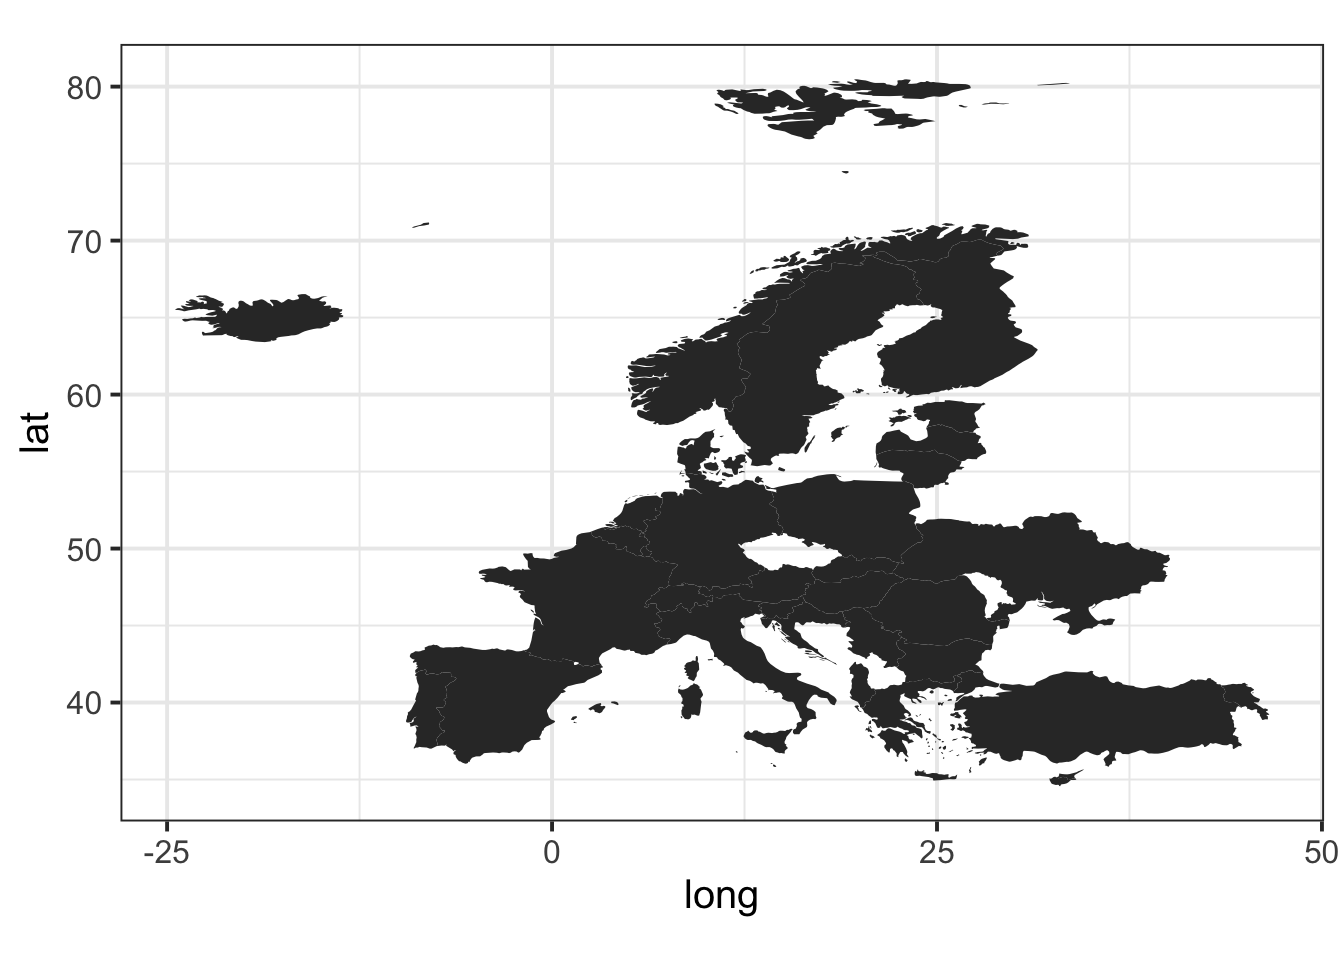
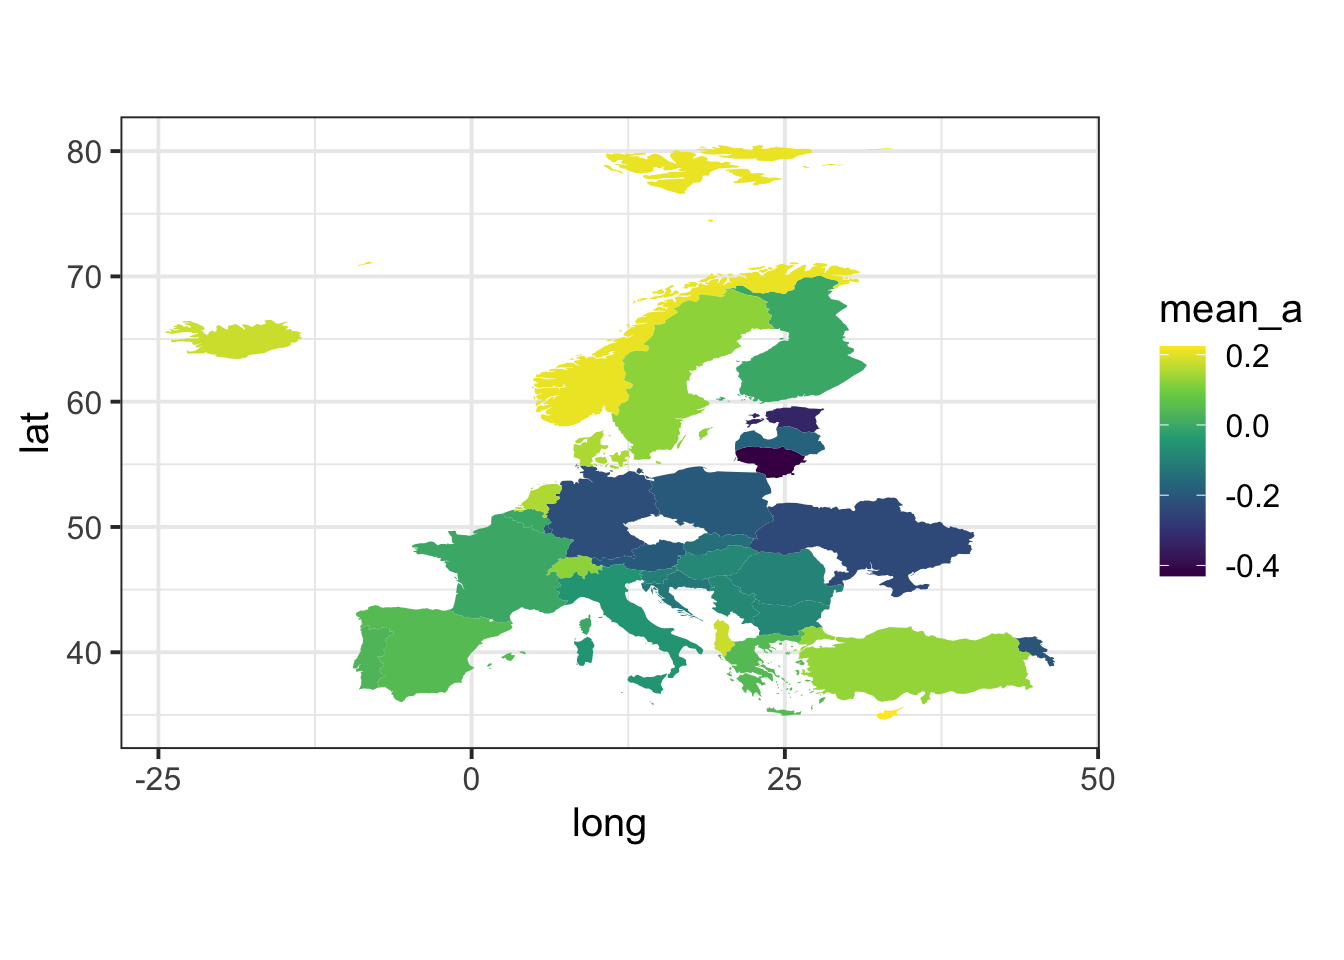
minor updates to mod 5 lab starter; mod 4 lab

diff --git a/docs/labs/mod-04-lead-personality.html b/docs/labs/mod-04-lead-personality.html
@@ -482,10 +482,8 @@ pre code {
 <ol start="6" style="list-style-type: decimal">
 <li>Join the <code>map_data("world")</code> with the <code>combined</code> data to create a new dataset. Make sure to do so in a way that only keeps the countries we have data for in the <code>combined</code> dataset. You can assign this new dataset to a variable just called <code>d</code>.</li>
 </ol>
-<div class="sourceCode" id="cb14"><pre class="sourceCode r"><code class="sourceCode r"><span id="cb14-1"><a href="#cb14-1" tabindex="-1"></a>d <span class="ot">&lt;-</span> ... <span class="sc">%&gt;%</span></span>
-<span id="cb14-2"><a href="#cb14-2" tabindex="-1"></a>  ...</span></code></pre></div>
 <div class="green">
-<p><strong>Hint:</strong> Pay attention to the fact I wrote you want to prioritize the countries in the <code>combined</code> dataset. The <code>map_data("world")</code> dataset has way more countries than we need. So which join function do you want to use? Next, you need to specify in the join function which variables from the two datasets we should join on (using the <code>by = c(VAR1,VAR2)</code> argument).</p>
+<p><strong>Hint:</strong> Pay attention to the fact I wrote you want to prioritize the countries in the <code>combined</code> dataset. The <code>map_data("world")</code> dataset has way more countries than we need. So which join function do you want to use? Next, you need to specify in the join function which variable in each dataset has the countries we want to join on (using the <code>by = c(VAR1=VAR2)</code> argument).</p>
 </div>
 <div class="frame">
 <p>Short variable names like <code>d</code> can be useful for “temporary” data that won’t be used for more than one thing. We’re only going to be using <code>d</code> to make our map plots, but we wouldn’t use it for any other kinds of analysis, so the short and generically non-descript name can be OK here.</p>
@@ -494,14 +492,14 @@ pre code {
 <div id="map-it" class="section level3">
 <h3>Map it!</h3>
 <p>Now we’re ready to make our map to explore the possibility of geographic differences. The code below creates the basic map.</p>
-<div class="sourceCode" id="cb15"><pre class="sourceCode r"><code class="sourceCode r"><span id="cb15-1"><a href="#cb15-1" tabindex="-1"></a><span class="fu">ggplot</span>(d, <span class="fu">aes</span>(<span class="at">x=</span>long, <span class="at">y =</span> lat, <span class="at">group=</span>group)) <span class="sc">+</span> </span>
-<span id="cb15-2"><a href="#cb15-2" tabindex="-1"></a>  <span class="fu">geom_polygon</span>() <span class="sc">+</span> </span>
-<span id="cb15-3"><a href="#cb15-3" tabindex="-1"></a>  <span class="fu">coord_fixed</span>() </span></code></pre></div>
-<p><img src="mod-04-lead-personality_files/figure-html/unnamed-chunk-13-1.png" width="80%" style="display: block; margin: auto;" /></p>
+<div class="sourceCode" id="cb14"><pre class="sourceCode r"><code class="sourceCode r"><span id="cb14-1"><a href="#cb14-1" tabindex="-1"></a><span class="fu">ggplot</span>(d, <span class="fu">aes</span>(<span class="at">x=</span>long, <span class="at">y =</span> lat, <span class="at">group=</span>group)) <span class="sc">+</span> </span>
+<span id="cb14-2"><a href="#cb14-2" tabindex="-1"></a>  <span class="fu">geom_polygon</span>() <span class="sc">+</span> </span>
+<span id="cb14-3"><a href="#cb14-3" tabindex="-1"></a>  <span class="fu">coord_fixed</span>() </span></code></pre></div>
+<p><img src="mod-04-lead-personality_files/figure-html/unnamed-chunk-12-1.png" width="80%" style="display: block; margin: auto;" /></p>
 <ol start="7" style="list-style-type: decimal">
 <li>Modify the code above to plot agreeableness by country. What you produce should look like so:</li>
 </ol>
-<p><img src="mod-04-lead-personality_files/figure-html/unnamed-chunk-14-1.png" width="80%" style="display: block; margin: auto;" /></p>
+<p><img src="mod-04-lead-personality_files/figure-html/unnamed-chunk-13-1.png" width="80%" style="display: block; margin: auto;" /></p>
 <div class="green">
 <p><strong>Hint:</strong> To generate this, use the <code>fill</code> option in the <code>aes()</code>, making <code>fill</code> equal to the agreeableness variable. And then, somewhere in your code, you will use the viridis color scheme to make it look nicer with <code>scale_fill_viridis_c()</code></p>
 </div>
